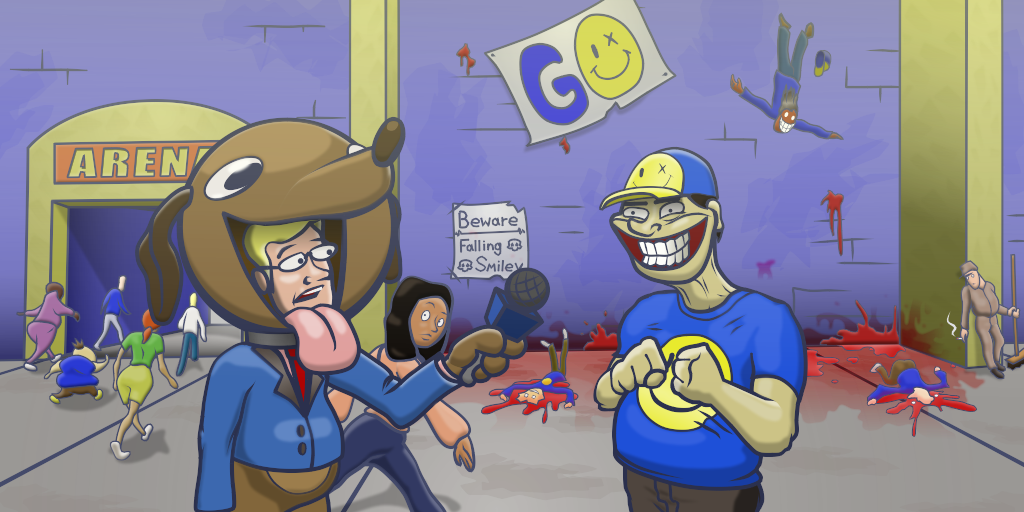
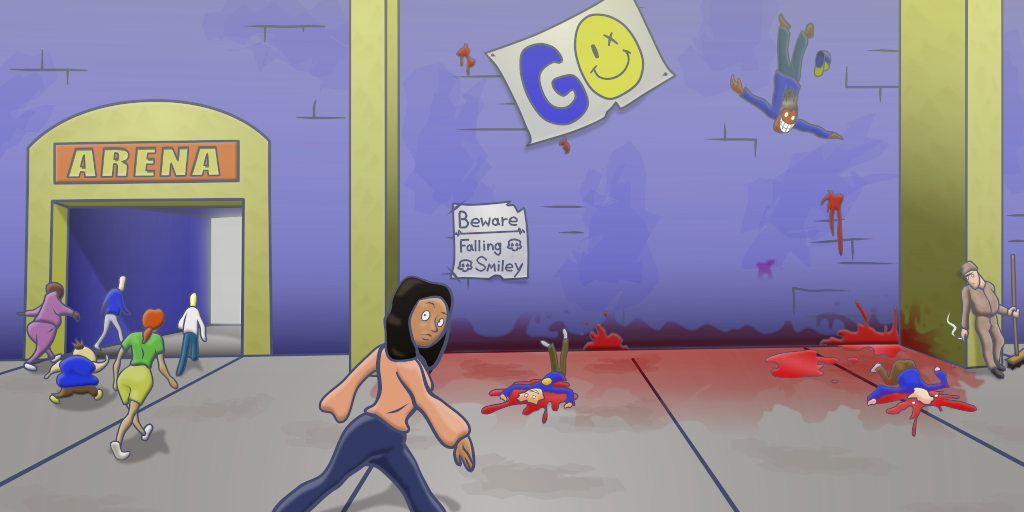
Smiley cutscene

Changed region(s): [[0.125, 0.2188, 0.5625, 1.0], [0.5625, 0.2812, 0.8125, 1.0]]

diff --git a/game.js b/game.js
@@ -14027,7 +14027,33 @@ $(function() {
         text: "What do you like BEST about the Serpentmen?\n\nThey BIT me! WooOo!"
       },
       smiley: {
-        text: "Here's a fan now! Hello sir, why are YOU smiling?\n\nHow the HELL should I know?"
+        text: "Here's a fan now! Hello sir, why are YOU smiling?\n\nHow the HELL should I know?",
+        props: [
+          {
+            arm: {
+              y: App.height / 3 + 10,
+              rotationFn: function(t) {
+                return Math.sin((t / 2) * Math.TAU) * Math.TAU / 600 + Math.sin((t / 3 + 0.5) * Math.TAU) * Math.TAU / 980;
+              },
+              registrationPoint: Point(0, 256)
+            },
+            reporter: {
+              y: App.height / 3 + 10,
+              rotationFn: function(t) {
+                return Math.sin((t / 2) * Math.TAU) * Math.TAU / 600;
+              },
+              registrationPoint: Point(0, 256)
+            },
+            fan: {
+              xFn: function(t) {
+                return App.width / 2 + Math.sin((t / 0.15) * Math.TAU) * 2 + Math.sin((t / 0.04) * Math.TAU) * 1;
+              },
+              yFn: function(t) {
+                return App.height / 3;
+              }
+            }
+          }
+        ]
       },
       spike: {
         text: "",
@@ -20013,7 +20039,7 @@ engine.setState(LoaderState({
 }));
 
 $(function() {
-  return engine.setState(Cutscene.scenes.spike);
+  return engine.setState(Cutscene.scenes.smiley);
 });
 
 engine.start();
